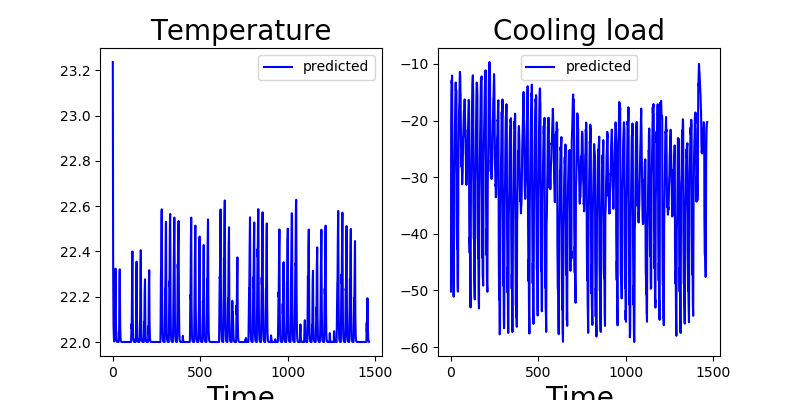
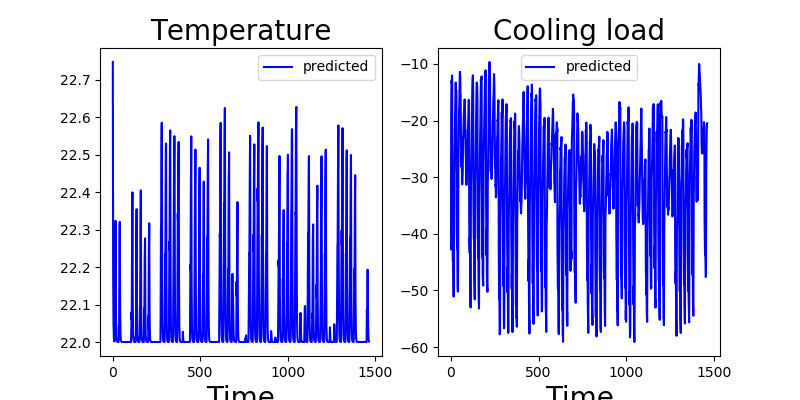
fixed a bug bug
if plot_original = True
end = data.shape[0]
will raise an error

change this to
end = data.shape[0]-1
resolves the error

diff --git a/gym_env/two_zone_model.py b/gym_env/two_zone_model.py
@@ -94,7 +94,7 @@ class two_zone_HVAC(gym.Env):
     def plot(self, states, start = 0, end = None, plot_original = True, savefig_filename = None):
         data = np.concatenate(self.state_trajectory).reshape((self.count_steps +1,self.observation_space.shape[0]))
         if end is None:
-            end = data.shape[0]
+            end = data.shape[0]-1
         number_of_colors = data.shape[1]
         color = ['r', 'b']
         fig, ax = plt.subplots(nrows=1, ncols=data.shape[1], figsize = (8,4))
